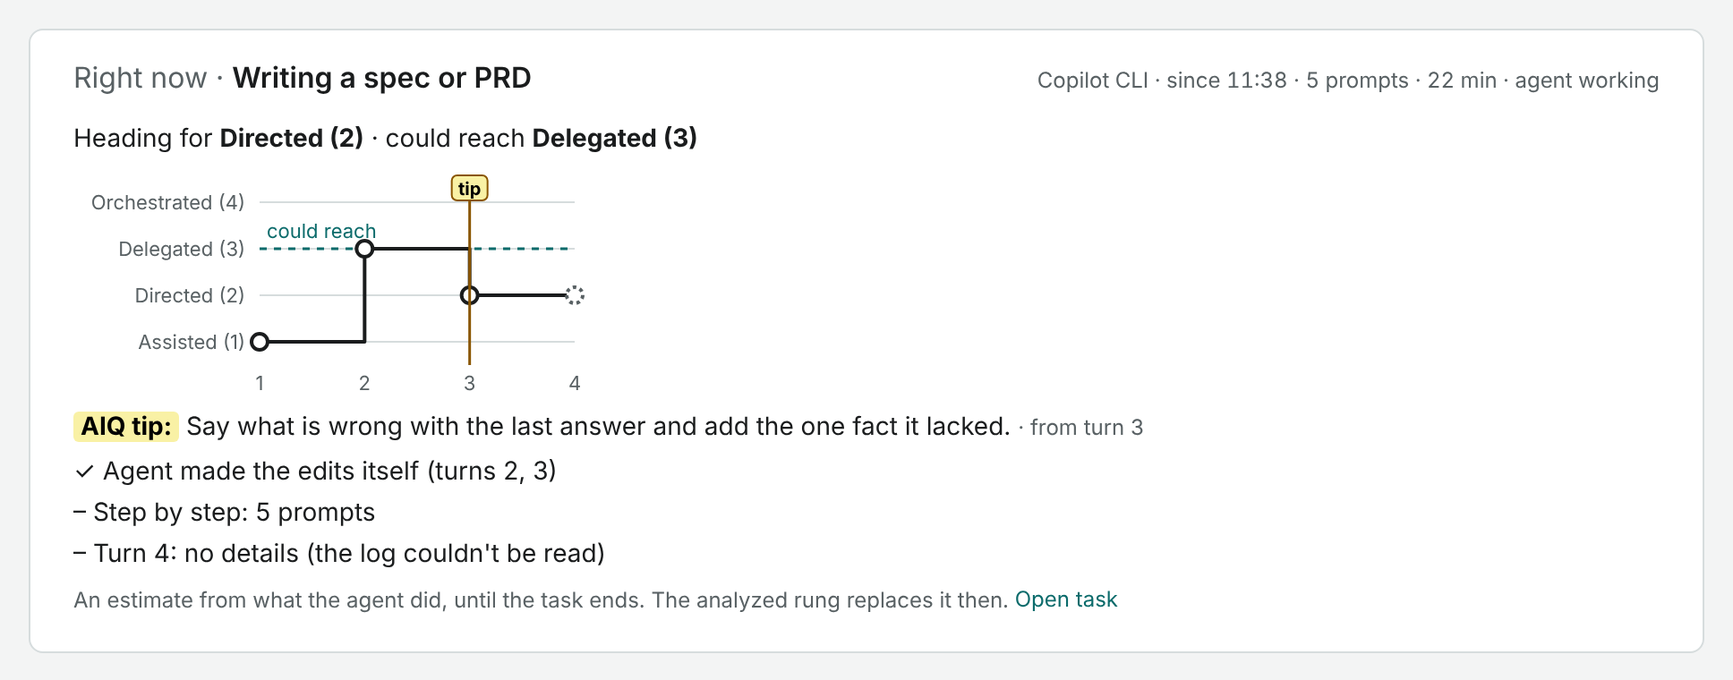
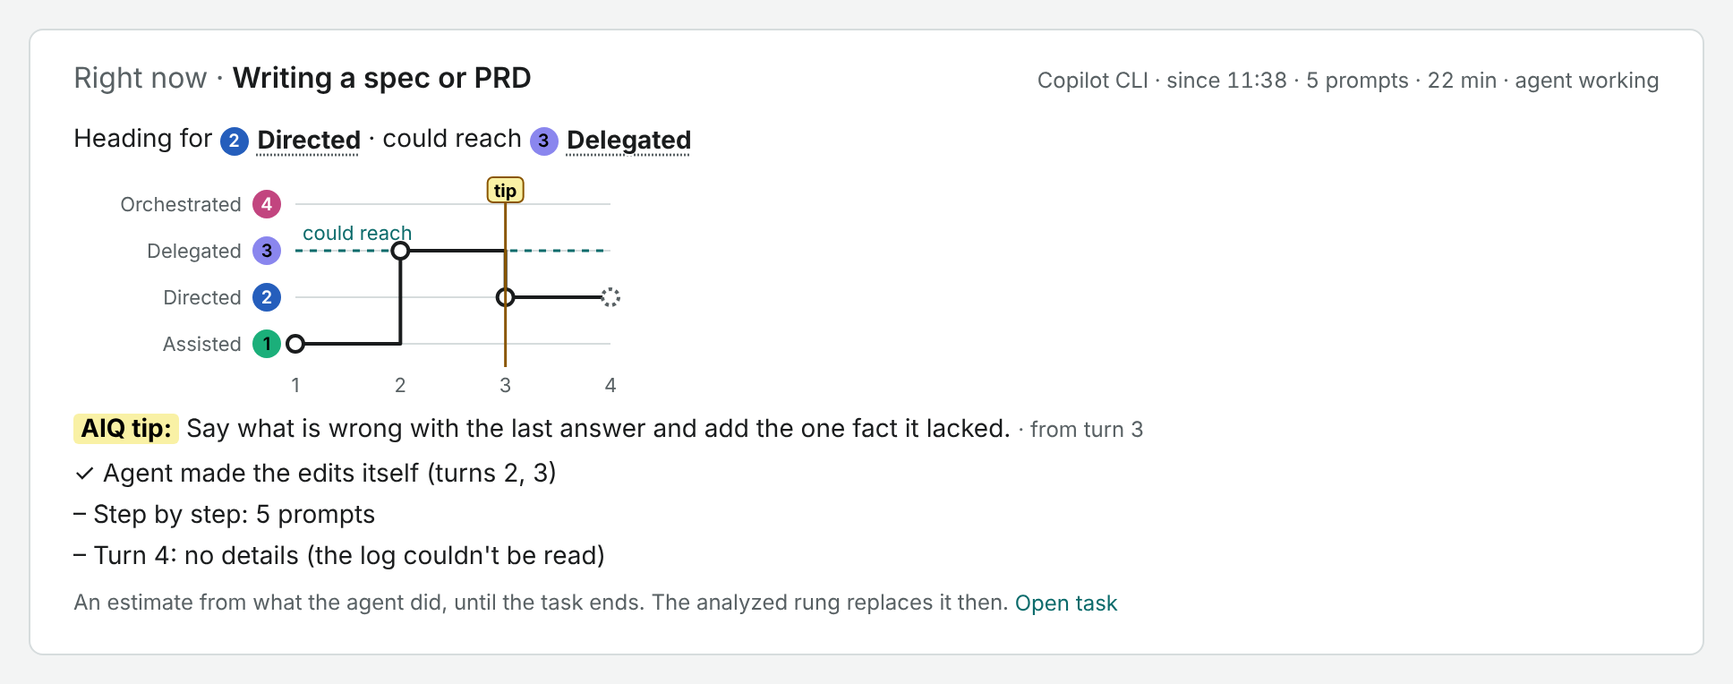
Show rung numbers as badges, and each rung's tasks on Home's ladder
Imran read "Assisted (1) ... Factory (5)" on Home's most-common-rung strip as task
counts per rung, next to "286 of 287 tasks analyzed". They were ladder positions.

- On screen a rung's number is now a badge in its hue before the name (RungNo,
  Rung); "(n)" is gone from Home, Tasks, Kinds, Right now (incl. chart axis),
  Day view, Kind page and Rung guide. Text (aria labels, titles) uses the name.
- Home's ladder strip shows each rung's tasks, and shares from 10 analyzed tasks
  (the rung mix's rule), with "N% of M tasks on a rung - last 30 days" and how
  many were unsure.
- DC-077 in the register; control rungno.test.ts fails on any "Name (n)" in the
  Home source; e2e reads rendered Home, Tasks, Day and Right now text.
- DESIGN.md rule updated; README screenshots refreshed. Terminal status line and
  `aiq progress` keep "Directed (2)" (no counts beside it there).

Claude-Session: https://claude.ai/code/session_016jtqhA4WLgNzGttc6WacLA

diff --git a/docs/lessons/defect-classes.html b/docs/lessons/defect-classes.html
@@ -774,4 +774,68 @@ th { background:var(--code); } hr { border:0; border-top:1px solid var(--line); 
 <ul><li><strong>Control (test):</strong> e2e &quot;an expired sign-in shows on every page…&quot; asserts the amber dot, the sidebar line and the</li></ul>
 <p>Settings rows for the affected tools, all from one blocked state, and that working or paused shows none of them.</p>
 <ul><li><strong>Rule:</strong> when two surfaces describe the same tool, derive both from one reader, and say on each what the other</li></ul>
-<p>one knows.</p></main></body></html>
+<p>one knows.</p>
+<h3>DC-071 — An install that copies over a running exe, and a failure that says no reason</h3>
+<ul><li><strong>Signature:</strong> 2026-11-13, Imran&#x27;s Devbox. Four installs failed in upgrade-log.txt with `AIQ-UPGRADE-SWAP: ...</li></ul>
+<p>The process cannot access the file ...\.aiq\bin\aiq.exe because it is being used by another process`: 0.1.54 at 02:30:02Z and 02:40:40Z, 0.1.55 at 04:08:25Z and 04:09:35Z, each 3 to 6 s after &quot;downloaded and checked&quot;. 0.1.54 went in on a third try and logged &quot;from 0.1.53 to unknown&quot;. Home said only &quot;An update didn&#x27;t install (installing v0.1.55 failed, so AIQ kept 0.1.54); AIQ 0.1.54 kept. It tries again tomorrow.&quot;: no reason, the kept version twice, and &quot;tomorrow&quot; untrue (the next check downloads again, within 15 minutes while Home is open). The diagnostics file held neither upgrade-log.txt nor update.json, so none of this could be read without copying files by hand. What held aiq.exe was not logged; a hook that started after Stop-Aiq is inferred, not measured.</p>
+<ul><li><strong>Why it survives:</strong> <code>-Apply</code> stopped AIQ, then copied the new exe over the old one. Any process that starts or</li></ul>
+<p>survives between the stop and the copy makes Windows refuse the overwrite. The CI runner has no hooks firing, so the race never happened there. The failed copy also overwrote <code>.old</code> with the current version first, so &quot;Go back&quot; was lost after a failure. update.json kept only &quot;installing X failed&quot;; the error lived in the log alone.</p>
+<ul><li><strong>Sweep:</strong> every place that writes an exe into bin: upgrade.ps1 <code>-Apply</code> (fixed), install.ps1 (fixed, same</li></ul>
+<p>rename), <code>-Rollback</code> <code>Swap-Old</code> (already renames), <code>aiq-statusline.exe</code> copy (keeps the one in place on failure, by design). Every reader of update.json&#x27;s failure: AIQ home&#x27;s line and <code>aiq update</code> (both now read <code>reason</code> and say &quot;it tries again at the next check&quot;). The diagnostics file now carries update.json, upgrade-log.txt and upgrade-log-held.txt. Everything that restarts a stopped core: hooks (<code>maybe_start_core</code>) now wait while <code>update-swapping</code> is there; AIQ home can&#x27;t run during <code>-Apply</code> (Busy-Reason); Stop-Aiq now finds processes the same two ways Busy-Reason does and logs what it couldn&#x27;t stop.</p>
+<ul><li><strong>Control (tests):</strong> release.yml Windows smoke &quot;an install goes through while a process AIQ didn&#x27;t stop runs</li></ul>
+<p>aiq.exe&quot; (<code>-SparePid</code> keeps a core running <code>bin\aiq.exe</code>; the old copy-over fails it; a second install while the core runs <code>aiq.exe.old</code> leaves a <code>.del</code> that the next run deletes; a broken zip fails with <code>reason</code>, puts nothing changed, and logs <code>AIQ-UPGRADE-HOLDERS</code>; no <code>update-swapping</code> left). <code>e2e_core_down_prompt_during_an_update_swap_starts_no_core_then_does_after</code> (red without the marker check), <code>a_swap_marker_holds_core_starts_for_two_minutes_at_most</code>. <code>a_failed_update_is_diagnosable_from_the_file_alone</code> (diagnostics), <code>a_failed_install_carries_its_reason_and_an_old_message_loses_the_kept_version</code> (update.rs), <code>a_failed_install_says_why_and_that_the_next_check_tries_again</code> (cli), <code>failedLine</code> unit tests and the Home e2e failed line.</p>
+<ul><li><strong>Rule:</strong> never overwrite a file that another process may run; rename it aside and write the new one beside it.</li></ul>
+<p>A failure record carries the error&#x27;s own words where the person reads it, and the diagnostics file carries every record a diagnosis needs.</p>
+<h3>DC-072 — An updater fix that ships inside the update the faulty updater must install</h3>
+<ul><li><strong>Signature:</strong> 2026-11-13. #279 (in 0.1.56) fixed upgrade.ps1&#x27;s copy-over failure on a held aiq.exe. The laptop</li></ul>
+<p>installed 0.1.56 first try. The Devbox stayed on 0.1.54: every try ran the installed 0.1.54 upgrade.ps1, which hit the same held aiq.exe, so the fix could never arrive. Imran was asked for a manual install.</p>
+<ul><li><strong>Why it survives:</strong> <code>-Apply</code> always ran the script already in bin, and a new script reached bin only by a successful</li></ul>
+<p>install. Every earlier <code>-Apply</code> fix had the same one-release lag (noted in U5l, U5o, U5p), but those old scripts still worked, so the lag never stranded a machine.</p>
+<ul><li><strong>Sweep:</strong> what runs an install: upgrade.ps1 <code>-Apply</code> (fixed: hands off), <code>-Zip</code> (already runs the release&#x27;s own</li></ul>
+<p>install.ps1), install.ps1 (the person runs the new one). <code>-Rollback</code> swaps back to the <code>.old</code> exes; the script that runs it is the newer one, which is what a rollback wants.</p>
+<ul><li><strong>Control (test):</strong> release.yml Windows smoke: a staged release whose upgrade.ps1 differs installs with that script</li></ul>
+<p>(<code>-Handoff</code> proof line, AIQ-UPDATE-HANDOFF), puts it in bin, cleans its temp copy; the same script again does not hand off; the handoff back to this build&#x27;s script works.</p>
+<ul><li><strong>Rule:</strong> the code that installs a release must be the release&#x27;s own, verified like the rest of it. A fix to an</li></ul>
+<p>installer must not depend on the old installer working. Honest limit: this only helps machines whose bin script already hands off; a machine stuck before that still needs one install by other means.</p>
+<h3>DC-073 — A task boundary that counts the person&#x27;s silence while the agent works</h3>
+<ul><li><strong>Signature:</strong> 2026-11-13. Imran: &quot;why are no tasks being classified as orchestrated?&quot; Of 1,090 analyzed tasks on</li></ul>
+<p>the laptop, 1 was Orchestrated. A task ended 30 minutes after the person&#x27;s last prompt, so a plan handed to a Fleet of sub-agents became one task and &quot;keep going&quot; two hours later another, analyzed without the plan. In the imported history 547 prompts started a new task by the gap; for 177 of them the agent itself had worked over 30 minutes.</p>
+<ul><li><strong>Why it survives:</strong> the idle gap was written for chat-style turns, where the person&#x27;s prompt is the only activity.</li></ul>
+<p>Long agent runs make the person&#x27;s silence normal, and nothing measured the agent&#x27;s side.</p>
+<ul><li><strong>Sweep:</strong> every place that splits tasks: <code>split_tasks</code> (Home, judge queue, task pages), the live <code>Engine</code> (tips,</li></ul>
+<p>re-prompt signal; its <code>prune</code> dropped a task while its agent still worked), <code>prompts_for_rebuild</code>, the Right-now <code>open_task</code>. All now count the agent&#x27;s turn end (<code>stop</code>) as activity. A task that grew after it was analyzed is analyzed again (<code>grew</code>, judge queue).</p>
+<ul><li><strong>Control (tests):</strong> <code>a_long_agent_run_keeps_its_task_open</code>, <code>engine_agent_stop_keeps_the_live_task_open</code>, the</li></ul>
+<p><code>split_tasks_matches_engine_task_ids</code> property with turn ends mixed in.</p>
+<ul><li><strong>Rule:</strong> a boundary in activity is measured from the last activity of anyone in it, not only the person.</li></ul>
+<h3>DC-074 — A log fact that says &quot;no&quot; when the log can only ever see &quot;yes&quot;</h3>
+<ul><li><strong>Signature:</strong> 2026-11-13. The envelope said &quot;spec, brief or design doc read or named: no&quot; and told the model to</li></ul>
+<p>trust log facts over the quoted text. The path match knew spec, ADR and design paths, not plan files. A Fleet launch naming <code>…IMPLEMENTATION_PLAN.md</code>, with 3 sub-agents and agent-run tests, was placed Directed: &quot;Your device logs do not establish a written brief&quot;. 44 of the 46 tasks with sub-agents and agent-run checks were marked &quot;no brief&quot;.</p>
+<ul><li><strong>Why it survives:</strong> DC-020 turned a log fact AIQ could not read into unknown, but kept &quot;no&quot; where every turn was</li></ul>
+<p>read. A path match can see a brief; it can never rule one out (a brief can be pasted or named in words).</p>
+<ul><li><strong>Sweep:</strong> log facts that are &quot;no&quot; when all turns are read: F1 edits, F8, F14, F15 and F3 read the agent&#x27;s own</li></ul>
+<p>actions, so a &quot;no&quot; there is a real observation. F7 was the only one that reads for a thing the log cannot cover.</p>
+<ul><li><strong>Control (tests):</strong> <code>a_brief_the_log_cannot_see_is_unknown_never_no</code>, <code>a_plan_file_is_a_brief</code>,</li></ul>
+<p><code>brief_may_change_only_where_the_brief_is_the_last_need</code>; fact set fs5.</p>
+<ul><li><strong>Rule:</strong> a log fact may say &quot;no&quot; only when the log could have seen every way to say &quot;yes&quot;.</li></ul>
+<h3>DC-075 — Another computer&#x27;s analysis calls counted as this computer&#x27;s</h3>
+<ul><li><strong>Signature:</strong> 2026-11-13, after 0.1.58. <code>aiq judge --versions</code> on the laptop: 132 outdated analyses &quot;not queued&quot;.</li></ul>
+<p>Each of them had exactly 6 failed calls (AIQ-JUDGE-ERROR) made by the Devbox, synced in: 2,136 Devbox failures on 391 laptop task ids, 11-09 to 11-12. The laptop&#x27;s retry rule counted them, so it &quot;gave up&quot; on its own tasks and they stayed on the old task cut and fact set.</p>
+<ul><li><strong>Why it survives:</strong> sync (#252) brought <code>judge_call</code> rows from other computers; <code>tools_down</code> and</li></ul>
+<p><code>newest_judge_call_per_provider</code> were scoped to <code>computer IS NULL</code>, <code>judge_calls_since</code> was not.</p>
+<ul><li><strong>Sweep:</strong> every <code>judge_calls_since</code> reader: the analysis queue&#x27;s retries and give-up, the daily budget</li></ul>
+<p>(<code>tasks_today</code>), Home&#x27;s &quot;analysis today&quot; counts and back-off state, <code>aiq judge --versions</code>. All now read this computer&#x27;s calls only.</p>
+<ul><li><strong>Control (test):</strong> <code>another_computers_calls_never_count_against_this_computers_tasks</code> (store).</li><li><strong>Rule:</strong> a synced row describes the computer that wrote it; a rule about this computer reads only its own rows.</li></ul>
+<h3>DC-076 — A run summary that leaves out the work done without a model call</h3>
+<ul><li><strong>Signature:</strong> 2026-11-13, after 0.1.59. judge.log said <code>run judged=24 ... waiting=0</code> while about 70 more outdated</li></ul>
+<p>tasks had left the queue. Alpha could not tell whether AIQ would release them later or they no longer qualified. They were restamped (log facts unchanged, no model call), which the line never counted.</p>
+<ul><li><strong>Sweep:</strong> the Report fields not in the run line: <code>restamped</code>, <code>skipped_no_text</code>. Both added.</li><li><strong>Control (test):</strong> <code>the_run_line_says_how_many_were_restamped_or_had_no_text</code>.</li><li><strong>Rule:</strong> a summary line accounts for every item that left the queue, by the path it took.</li></ul>
+<h3>DC-077 — An ordinal written like a count, beside counts</h3>
+<ul><li><strong>Signature:</strong> 2026-11-13, Imran on Home: &quot;Your most common rung: Assisted (1) · 286 of 287 tasks analyzed&quot; over a</li></ul>
+<p>ladder &quot;Assisted (1) … Factory (5)&quot;. He read the bracketed numbers as tasks per rung and asked why they disagreed with the Kinds view (9 kinds Directed) and All tasks (many Directed). They were ladder positions.</p>
+<ul><li><strong>Why it survives:</strong> spec H4 &quot;names first, numbers second&quot; chose <code>Directed (2)</code> for one rung in a sentence; the</li></ul>
+<p>same helper (<code>rungLabel</code>) was reused on screens that also show counts, where &quot;(n)&quot; is the common count notation.</p>
+<ul><li><strong>Sweep:</strong> every <code>rungLabel</code> reader in Home (strip, Right now, Day view, Kind chart axis, Tasks, Kinds, chips).</li></ul>
+<p>On screen the number is now a badge before the name (<code>RungNo</code>, <code>Rung</code>); text (aria labels, titles) uses the name alone. Not swept: the terminal status line and <code>aiq progress</code> text (no counts beside the rung there); follow-up if they confuse.</p>
+<ul><li><strong>Control (test):</strong> <code>rungno.test.ts</code> fails if any Home source writes a rung name followed by &quot;(1)&quot;–&quot;(5)&quot; or the</li></ul>
+<p>old template; e2e &quot;rung numbers are badges, never \&quot;(n)\&quot; beside counts&quot; reads the rendered Home, Tasks and Day text and checks the ladder&#x27;s per-rung counts against the snapshot.</p>
+<ul><li><strong>Rule:</strong> never write a position in the notation the same screen uses for counts; show it as a mark (badge).</li></ul></main></body></html>

diff --git a/DESIGN.html b/DESIGN.html
@@ -49,7 +49,7 @@ th { background:var(--code); } hr { border:0; border-top:1px solid var(--line); 
 <h2>2. Color palette &amp; roles — with contrast audit</h2>
 <p>Ratios computed from the hex values (WCAG relative luminance), light mode on <code>{colors.surface}</code> unless stated. Dark and high-contrast values are in §8.</p>
 <table><thead><tr><th>Token</th><th>Hex</th><th>Role</th><th>On surface</th><th>Contrast</th><th>AA</th></tr></thead><tbody><tr><td><code>{colors.ink}</code></td><td>#1a1c1d</td><td>Body text</td><td><code>{colors.surface}</code></td><td>17.10:1</td><td>pass</td></tr><tr><td><code>{colors.ink}</code></td><td>#1a1c1d</td><td>Body text</td><td><code>{colors.canvas}</code></td><td>15.52:1</td><td>pass</td></tr><tr><td><code>{colors.ink-mute}</code></td><td>#596164</td><td>Captions, helper</td><td><code>{colors.surface}</code></td><td>6.33:1</td><td>pass</td></tr><tr><td><code>{colors.ink-mute}</code></td><td>#596164</td><td>Captions on canvas</td><td><code>{colors.canvas}</code></td><td>5.74:1</td><td>pass</td></tr><tr><td><code>{colors.ink-mute}</code></td><td>#596164</td><td>Captions on soft</td><td><code>{colors.canvas-soft}</code></td><td>5.41:1</td><td>pass</td></tr><tr><td><code>{colors.on-primary}</code></td><td>#ffffff</td><td>Primary button label</td><td><code>{colors.primary}</code></td><td>6.31:1</td><td>pass</td></tr><tr><td><code>{colors.primary}</code></td><td>#0b6b6b</td><td>Links, selected nav text</td><td><code>{colors.surface}</code></td><td>6.31:1</td><td>pass</td></tr><tr><td><code>{colors.success}</code></td><td>#1e7a45</td><td>&quot;Adopted&quot; chip text</td><td><code>{colors.surface}</code></td><td>5.35:1</td><td>pass</td></tr><tr><td><code>{colors.warning}</code></td><td>#8a5600</td><td>&quot;Blocked by the repo&quot;, paused</td><td><code>{colors.surface}</code></td><td>6.16:1</td><td>pass</td></tr><tr><td><code>{colors.danger}</code></td><td>#b42318</td><td>Errors, delete</td><td><code>{colors.surface}</code></td><td>6.57:1</td><td>pass</td></tr><tr><td><code>{colors.focus-ring}</code></td><td>#0b6b6b</td><td>Focus ring (2px)</td><td><code>{colors.surface}</code></td><td>6.31:1</td><td>pass (≥ 3)</td></tr><tr><td><code>{colors.scrim}</code></td><td>#0a1414</td><td>Dialog and palette backdrop at 30–35%</td><td>—</td><td>—</td><td>not text</td></tr><tr><td><code>{colors.hairline}</code></td><td>#d6dcdd</td><td>Dividers (decorative)</td><td><code>{colors.surface}</code></td><td>1.39:1</td><td>exempt (decorative); never the only control boundary</td></tr></tbody></table>
-<p>Rung ramp <code>{colors.rung-1}</code>…<code>{colors.rung-5}</code> fills bars only; every bar carries its rung name and value as text, so no meaning rests on the colour (WCAG 1.4.1).</p>
+<p>Rung ramp <code>{colors.rung-1}</code>…<code>{colors.rung-5}</code> fills bars only; every bar carries its rung name and value as text, so no meaning rests on the colour (WCAG 1.4.1). Each rung has its own hue, walking the wheel aqua → blue → violet → magenta → orange, and the same five serve light and dark (a rung keeps its colour). Imran (2026-11-05): shades of one green can&#x27;t be told apart; measured, five one-hue shades top out near OKLab ΔE 11 between neighbours. These five clear the dataviz gates over all pairs in both themes: normal-vision ΔE ≥ 15.7, protan/deutan ΔE ≥ 9.0, every fill ≥ 2:1 on both canvases. The success green stays reserved for status. Every rung swatch, segment and block also shows its rung number in <code>--on-rung-N</code> ink (at least 4.7:1 on its fill). <code>apps/home/src/palette.test.ts</code> enforces all of this.</p>
 <h2>3. Typography</h2>
 <table><thead><tr><th>Token</th><th>Size</th><th>Weight</th><th>Line height</th><th>Tracking</th><th>Use</th></tr></thead><tbody><tr><td><code>{typography.display}</code></td><td>44px</td><td>600</td><td>1.05</td><td>-0.5px</td><td>The kept rate on Home, nothing else</td></tr><tr><td><code>{typography.title}</code></td><td>24px</td><td>600</td><td>1.25</td><td>-0.2px</td><td>Page titles</td></tr><tr><td><code>{typography.heading}</code></td><td>16px</td><td>600</td><td>1.35</td><td>0</td><td>Section and card headings</td></tr><tr><td><code>{typography.body}</code></td><td>14px</td><td>400</td><td>1.5</td><td>0</td><td>Default text, table cells</td></tr><tr><td><code>{typography.caption}</code></td><td>12px</td><td>400</td><td>1.4</td><td>0.1px</td><td>Meta, counts, key hints</td></tr><tr><td><code>{typography.mono}</code></td><td>13px</td><td>400</td><td>1.5</td><td>0</td><td>Prompts, commands, starter prompt</td></tr></tbody></table>
 <p>Open-source substitute off Windows: system-ui (Linux/macOS). Numbers use tabular figures.</p>
@@ -65,7 +65,7 @@ th { background:var(--code); } hr { border:0; border-top:1px solid var(--line); 
 <h2>7. UI copy — real strings</h2>
 <ul><li>Home headline: &quot;Tasks agents finished without you redoing them&quot; · &quot;{kept} of {judged} tasks in the last 30 days&quot;</li><li>First weeks: &quot;AIQ runs quietly in the background. Patterns show after about 10 tasks of the same kind.&quot;</li><li>Queued: &quot;{n} tasks are waiting to be judged. They&#x27;re left out of these numbers until then.&quot;</li><li>Core down: &quot;AIQ isn&#x27;t running, so this shows what was stored at {time}. It starts with your next prompt in Claude Code.&quot;</li><li>Low confidence: &quot;AIQ isn&#x27;t sure enough to suggest a next step yet.&quot;</li><li>Environment blocker: &quot;Blocked by the repo: {finding}. That&#x27;s a repo fix, not a habit.&quot;</li><li>This doesn&#x27;t fit: &quot;What doesn&#x27;t fit?&quot; · &quot;This tunes your tips. It doesn&#x27;t change how the task is judged.&quot; · &quot;Thanks. AIQ won&#x27;t suggest this step for this task. Undo&quot;</li><li>Setup judge, signed in: &quot;AIQ will judge finished tasks with your Claude Code. Each check uses your Claude Code plan usage, up to {budget} tasks a day. AIQ never reads or stores your sign-in.&quot;</li><li>Setup judge, not signed in: &quot;Sign in to Claude Code&quot; · &quot;Use an API key instead&quot; · &quot;Skip for now&quot;</li><li>Work-account caveat: &quot;On a work account, your organisation&#x27;s policies apply to these calls, including logging and retention.&quot;</li><li>Delete all: &quot;Delete everything AIQ stored?&quot; · &quot;This deletes {events} events, {tips} tips and their evidence. It can&#x27;t be undone. Your tools and your work aren&#x27;t affected.&quot; · &quot;Type forget to confirm&quot;</li><li>Deleted: &quot;AIQ has no stored history. Capture is still on.&quot;</li><li>Paused: &quot;AIQ is paused. Nothing is captured and no tips show.&quot; · &quot;Resume (P)&quot;</li><li>Sharing off: &quot;Off. Nothing leaves this computer.&quot;</li></ul>
 <h2>8. Modes</h2>
-<table><thead><tr><th>Token</th><th>Light</th><th>Dark</th><th>High contrast</th></tr></thead><tbody><tr><td>canvas</td><td>#f3f4f4</td><td>#1b1d1e</td><td>#000000</td></tr><tr><td>canvas-soft</td><td>#eaeeee</td><td>#2d3234</td><td>#000000</td></tr><tr><td>surface</td><td>#ffffff</td><td>#24282a</td><td>#000000</td></tr><tr><td>ink</td><td>#1a1c1d</td><td>#eceeee</td><td>#ffffff</td></tr><tr><td>ink-mute</td><td>#596164</td><td>#a3abae</td><td>#e8e8e8</td></tr><tr><td>hairline</td><td>#d6dcdd</td><td>#3a4143</td><td>#ffffff</td></tr><tr><td>primary / focus-ring</td><td>#0b6b6b</td><td>#5cc8c2</td><td>#ffd400</td></tr><tr><td>on-primary</td><td>#ffffff</td><td>#0b1d1d</td><td>#000000</td></tr><tr><td>success</td><td>#1e7a45</td><td>#6fd39a</td><td>#7ee2a8</td></tr><tr><td>warning</td><td>#8a5600</td><td>#f0b860</td><td>#ffd166</td></tr><tr><td>danger</td><td>#b42318</td><td>#ff9a8f</td><td>#ffb4ab</td></tr><tr><td>rung-1…5</td><td>#c4e6e3 → #0b3f3d</td><td>#1d4a48 → #c4ece9</td><td>outlines only, white</td></tr></tbody></table>
+<table><thead><tr><th>Token</th><th>Light</th><th>Dark</th><th>High contrast</th></tr></thead><tbody><tr><td>canvas</td><td>#f3f4f4</td><td>#1b1d1e</td><td>#000000</td></tr><tr><td>canvas-soft</td><td>#eaeeee</td><td>#2d3234</td><td>#000000</td></tr><tr><td>surface</td><td>#ffffff</td><td>#24282a</td><td>#000000</td></tr><tr><td>ink</td><td>#1a1c1d</td><td>#eceeee</td><td>#ffffff</td></tr><tr><td>ink-mute</td><td>#596164</td><td>#a3abae</td><td>#e8e8e8</td></tr><tr><td>hairline</td><td>#d6dcdd</td><td>#3a4143</td><td>#ffffff</td></tr><tr><td>primary / focus-ring</td><td>#0b6b6b</td><td>#5cc8c2</td><td>#ffd400</td></tr><tr><td>on-primary</td><td>#ffffff</td><td>#0b1d1d</td><td>#000000</td></tr><tr><td>success</td><td>#1e7a45</td><td>#6fd39a</td><td>#7ee2a8</td></tr><tr><td>warning</td><td>#8a5600</td><td>#f0b860</td><td>#ffd166</td></tr><tr><td>danger</td><td>#b42318</td><td>#ff9a8f</td><td>#ffb4ab</td></tr><tr><td>rung-1…5</td><td>aqua #1baf7a, blue #255ebc, violet #8a86ee, magenta #c2457f, orange #e86531</td><td>same five</td><td>black fills, white outlines and numbers</td></tr></tbody></table>
 <p>Dark-mode audit (on surface): ink 12.77, ink-mute 6.37, primary 7.43, on-primary on primary 8.69, success 8.12, warning 8.31, danger 7.27. All pass AA. Density: Compact drops row padding from 12 to 8 in tables only.</p>
 <h2>9. Performance budget</h2>
 <p>Cold start to interactive Home ≤ 1 s with 30 days of data (spec NFR); view switches ≤ 100 ms; all reads local. No web fonts, no images beyond inline SVG; skeletons for any read over 150 ms.</p>
@@ -73,7 +73,7 @@ th { background:var(--code); } hr { border:0; border-top:1px solid var(--line); 
 <p>AIQ home shows a model&#x27;s judgment (the rung judge) and a model&#x27;s suggested next step.</p>
 <ul><li><strong>HAX G1/G2:</strong> the judge&#x27;s source is named on every detail (&quot;judged by your Claude Code&quot;).</li><li><strong>HAX G11 (why):</strong> the facts the judge used sit beside every next step.</li><li><strong>HAX G15/G16 (feedback):</strong> &quot;This doesn&#x27;t fit&quot; with a reason, and Undo.</li><li><strong>Uncertainty:</strong> below 0.8 confidence no next step is shown; uncertain facts say &quot;uncertain&quot;.</li><li><strong>Wrong answer:</strong> the person never sees a rung as a verdict on them; they can withdraw any guidance.</li><li><strong>Governor:</strong> nothing is sent or run for the person; the starter prompt is copied, not sent.</li><li><strong>Unavailable judge:</strong> views that need it say why and how to connect, and the rest works.</li></ul>
 <h2>11. Do&#x27;s &amp; Don&#x27;ts</h2>
-<ul><li>Do lead with the kept rate; rungs explain underneath.</li><li>Do write rung names first, numbers second (&quot;Directed (2)&quot;).</li><li>Don&#x27;t show scores, grades, streaks, badges or any comparison with other people.</li><li>Don&#x27;t use <code>{colors.danger}</code> for anything except errors and deletion.</li><li>Don&#x27;t use a thick coloured side bar on banners or cards.</li></ul>
+<ul><li>Do lead with the kept rate; rungs explain underneath.</li><li>Do write rung names first; on screen the rung number is a badge before the name in its hue, never &quot;(2)&quot; after it, which beside counts reads as a count (DC-077). Plain text (terminal) may write &quot;Directed (2)&quot;.</li><li>Don&#x27;t show scores, grades, streaks, badges or any comparison with other people.</li><li>Don&#x27;t use <code>{colors.danger}</code> for anything except errors and deletion.</li><li>Don&#x27;t use a thick coloured side bar on banners or cards.</li></ul>
 <h2>12. Responsive behaviour</h2>
 <p>Desktop-bound. Minimum window 720×520. Below 900px wide the nav collapses to icons plus key hints and Home&#x27;s top row stacks. Pointer targets ≥ 32px high in the desktop app (WCAG 2.2 2.5.8 minimum 24px); primary actions 36px.</p>
 <h2>13. Agent prompt &amp; iteration guide</h2>

diff --git a/apps/home/src/pages/Home.tsx b/apps/home/src/pages/Home.tsx
@@ -5,8 +5,8 @@
 import { api } from "../api";
 import { HabitChangeLine, LadderMap, MilestoneLine, NextSteps, RungMix, judgedBy, moved, pct } from "../coach";
 import { DAY, rungCounts, shift } from "../mix";
-import { RUNGS, day, folderName, plural, rungLabel, sentence, shortDay, shortPath, toolName, when } from "../format";
-import { AccuracyPaused, Banners, ProjectPicker, Rung, Title, UpdateLine, type Ctx } from "../ui";
+import { RUNGS, day, folderName, plural, sentence, shortDay, shortPath, toolName, when } from "../format";
+import { AccuracyPaused, Banners, ProjectPicker, Rung, RungNo, Title, UpdateLine, type Ctx } from "../ui";
 import type { SetAside } from "../types";
 import { RightNow } from "./RightNow";
 import { DroughtNote } from "../funnel";
@@ -37,6 +37,8 @@ export function Home(ctx: Ctx) {
   const max = Math.max(1, ...h.weeks.map((w) => w.tasks));
   const mc = h.most_common_rung;
   const onRung = h.rungs.reduce((a, b) => a + b, 0);
+  // Shares only from the split minimum, as the rung mix below: a few tasks can't swing a percentage.
+  const shares = onRung >= snap.coaching.split_min;
   const mv = moved(snap.coaching);
   const c = snap.coaching;
   const sp = c.split;
@@ -64,25 +66,38 @@ export function Home(ctx: Ctx) {
       <section
         className="mainrung"
         role="img"
-        aria-label={`Your most common rung: ${mc ? `${rungLabel(mc)}. ${RUNGS[mc - 1].means}` : "not analyzed yet"}. The ladder runs Assisted, Directed, Delegated, Orchestrated, Factory.`}
+        aria-label={`Your most common rung: ${mc ? `${RUNGS[mc - 1].name}, rung ${mc} of 5. ${RUNGS[mc - 1].means} ${RUNGS.map((r, i) => `${r.name} ${plural(h.rungs[i] ?? 0, "task")}`).join(", ")}, last ${h.window_days} days.` : "not analyzed yet. The ladder runs Assisted, Directed, Delegated, Orchestrated, Factory."}`}
       >
         <div className="lbl" aria-hidden="true">
           <span className="mute">Your most common rung</span>
           {mc ? (
-            <span style={{ font: "var(--t-heading)" }}>{rungLabel(mc)}</span>
+            <span style={{ font: "var(--t-heading)" }}>{RUNGS[mc - 1].name}</span>
           ) : (
             <span className="meta">{h.analysis.state === "off" ? "Analysis is off" : "Not analyzed yet"}</span>
+          )}
+          {mc && (
+            <span className="meta" data-testid="rung-share">
+              {shares ? `${pct(h.rungs[mc - 1], onRung)}%` : h.rungs[mc - 1]} of {plural(onRung, "task")} on a rung · last {h.window_days} days
+            </span>
           )}
           <span className="meta">
             {(ctx.project === null && h.analysis.state !== "blocked" && analysisLine(h.analysis)) ||
               (h.judged > 0 ? `${plural(h.judged, "task")} analyzed in ${h.window_days} days` : "No task analyzed yet")}
+            {h.uncertain > 0 && ` · ${h.uncertain} unsure, not on a rung`}
           </span>
           {mc && <span className="meta means">{RUNGS[mc - 1].means}</span>}
         </div>
-        <div className="scale" aria-hidden="true">
-          {RUNGS.map((_, i) => (
-            <span key={i} className={mc === i + 1 ? "on" : undefined} title={RUNGS[i].means}>{rungLabel(i + 1)}</span>
-          ))}
+        <div className="scale counted" aria-hidden="true">
+          {RUNGS.map((r, i) => {
+            const v = h.rungs[i] ?? 0;
+            return (
+              <span key={i} className={mc === i + 1 ? "on" : undefined} title={r.means}>
+                <span className="step-bar"><i className={`rg-${i + 1}`} style={{ width: `${pct(v, onRung)}%` }} /></span>
+                <span className="step-name"><RungNo r={i + 1} />{r.name}</span>
+                <span className="step-n num">{v === 0 ? "none" : shares ? `${plural(v, "task")} · ${pct(v, onRung)}%` : plural(v, "task")}</span>
+              </span>
+            );
+          })}
         </div>
       </section>
 

diff --git a/apps/home/src/styles.css b/apps/home/src/styles.css
@@ -150,7 +150,22 @@ kbd{font:var(--t-caption);border:1px solid var(--ink-mute);border-radius:var(--r
 .scale>span{cursor:help}
 /* A rung name you can hover for its meaning: a quiet dotted underline says so. */
 .rung{text-decoration:underline dotted var(--ink-mute);text-underline-offset:3px;cursor:help}
+.rn-no{font:600 10px/1 var(--f-text)}
+@media (forced-colors:active){.rn-trace circle{fill:Canvas!important;stroke:CanvasText}.rn-no{fill:CanvasText!important}}
+.rung-tag{display:inline-flex;align-items:center;gap:5px;white-space:nowrap}
+.rung-no{display:inline-grid;place-items:center;flex:none;width:16px;height:16px;border-radius:50%;font:600 10px/1 var(--f-text);font-style:normal}
+@media (forced-colors:active){.rung-no{border:1px solid CanvasText;forced-color-adjust:none}}
 .scale>span.on::before{height:12px;margin-top:-2px;background:var(--primary);border-color:var(--primary)}
+/* The ladder strip with each rung's tasks: a share bar in the rung's hue, its number as a badge (not "(1)", which
+   reads as a count), and the count and share under the name. */
+.scale.counted>span::before{content:none}
+.scale.counted>span{gap:var(--s1);text-align:left}
+.step-bar{display:block;height:8px;border-radius:var(--r-sm);background:var(--canvas-soft);border:1px solid var(--hairline);overflow:hidden}
+.step-bar i{display:block;height:100%}
+.scale.counted>span.on .step-bar{height:12px;margin-top:-2px;border-color:var(--ink-mute)}
+.step-name{display:inline-flex;align-items:center;gap:6px}
+.step-n{color:var(--ink-mute)}
+.scale.counted>span.on .step-n{color:var(--ink)}
 .track{display:block;position:relative;height:16px;background:var(--canvas-soft);border-radius:var(--r-sm)}
 .track .now{position:absolute;inset:0 auto 0 0;border-radius:var(--r-sm)}
 [data-theme="contrast"] .track .now{border:1px solid var(--ink)}
@@ -438,7 +453,7 @@ nav.side .foot .updwhen{color:var(--ink-mute);font:400 11px/1.4 var(--f-text)}
 /* Kind page "Moving up?" (UI review item 9): rung of each judged task over the window. */
 .km{margin:var(--s3) 0 0;display:grid;grid-template-columns:auto minmax(0,1fr);grid-template-rows:120px auto;column-gap:var(--s4);row-gap:var(--s2)}
 .km-y{position:relative;min-width:110px;font:var(--t-caption);color:var(--ink-mute);text-align:right}
-.km-y span{position:absolute;right:0;transform:translateY(-50%);white-space:nowrap}
+.km-y span{position:absolute;right:0;transform:translateY(-50%);white-space:nowrap;display:inline-flex;align-items:center;gap:5px}
 .km-plot{position:relative;margin:0 var(--s2)}
 .km-plot svg{position:absolute;inset:0;width:100%;height:100%;overflow:visible}
 .km-plot polyline{fill:none;stroke:var(--ink);stroke-width:2;vector-effect:non-scaling-stroke;stroke-linejoin:round}

diff --git a/apps/home/src/pages/RightNow.tsx b/apps/home/src/pages/RightNow.tsx
@@ -6,7 +6,7 @@
 import { useState } from "react";
 import { clock, jobName, plural, rungLabel, sentence, toolName, when } from "../format";
 import { projectName } from "../project";
-import type { Ctx } from "../ui";
+import { Rung, type Ctx } from "../ui";
 import type { Live, Snapshot } from "../types";
 
 const RN = ["Assisted", "Directed", "Delegated", "Orchestrated"];
@@ -39,7 +39,7 @@ export function reasons(l: Live): { ok: boolean; text: string }[] {
 
 function Trace({ l }: { l: Live }) {
   const n = Math.max(l.steps.length, 1);
-  const L = 104, W = Math.max(160, n * 44), top = 8, RH = 26, H = top + 4 * RH;
+  const L = 124, W = Math.max(160, n * 44), top = 8, RH = 26, H = top + 4 * RH;
   const Y = (r: number) => top + (4 - r) * RH + RH / 2;
   const X = (i: number) => L + (n === 1 ? W / 2 : (i * W) / (n - 1));
   let d = "";
@@ -55,8 +55,12 @@ function Trace({ l }: { l: Live }) {
       {[1, 2, 3, 4].map((r) => (
         <g key={r}>
           <line x1={L} x2={L + W} y1={Y(r)} y2={Y(r)} className="rn-grid" />
-          <text x={L - 8} y={Y(r) + 4} textAnchor="end" className="rn-ax">
-            {RN[r - 1]} ({r})
+          <text x={L - 30} y={Y(r) + 4} textAnchor="end" className="rn-ax">
+            {RN[r - 1]}
+          </text>
+          <circle cx={L - 16} cy={Y(r)} r={8} style={{ fill: `var(--rung-${r})` }} />
+          <text x={L - 16} y={Y(r) + 3.5} textAnchor="middle" className="rn-no" style={{ fill: `var(--on-rung-${r})` }}>
+            {r}
           </text>
         </g>
       ))}
@@ -180,10 +184,10 @@ export function RightNow(ctx: Ctx) {
         <p className="rn-head">
           {l.rung !== null ? (
             <>
-              Heading for <b>{rungLabel(l.rung)}</b>
+              Heading for <b><Rung r={l.rung} /></b>
               {l.could !== null && (
                 <>
-                  {" "}· could reach <b>{rungLabel(l.could)}</b>
+                  {" "}· could reach <b><Rung r={l.could} /></b>
                 </>
               )}
             </>

diff --git a/apps/home/src/pages/DayView.tsx b/apps/home/src/pages/DayView.tsx
@@ -6,7 +6,7 @@ import { useMemo, useState } from "react";
 import { clock, day, jobOf, plural, rungLabel, stateLabel, toolName } from "../format";
 import { GAP_MIN, daySummary, lanes, taskDays, timeline, type Lane } from "../day";
 import { projectName, projectOf } from "../project";
-import type { Ctx } from "../ui";
+import { Rung, type Ctx } from "../ui";
 import type { TaskRow } from "../types";
 
 const span = (a: number, b: number, off: number) => (clock(a, off) === clock(b, off) ? clock(a, off) : `${clock(a, off)}–${clock(b, off)}`);
@@ -20,8 +20,12 @@ function TaskTip({ t, off }: { t: TaskRow; off: number }) {
       <br />
       {t.judgment ? (
         <>
-          {rungLabel(t.judgment.current)}
-          {t.judgment.potential > t.judgment.current && ` · could be ${rungLabel(t.judgment.potential)}`}
+          <Rung r={t.judgment.current} />
+          {t.judgment.potential > t.judgment.current && (
+            <>
+              {" "}· could be <Rung r={t.judgment.potential} />
+            </>
+          )}
           {stateLabel(t.judgment.state) && ` · ${stateLabel(t.judgment.state)}`}
         </>
       ) : (
@@ -54,7 +58,7 @@ function LaneTip({ l, name, off }: { l: Lane; name: string; off: number }) {
       {l.usual_rung !== null && (
         <>
           <br />
-          Mostly {rungLabel(l.usual_rung)}
+          Mostly <Rung r={l.usual_rung} />
         </>
       )}
     </span>
@@ -96,7 +100,7 @@ export function DayView(ctx: Ctx) {
         {sum.kinds > 0 && <> · {plural(sum.kinds, "kind")} of task</>}
         {sum.usual !== null && (
           <>
-            {" "}· mostly <b>{rungLabel(sum.usual)}</b>
+            {" "}· mostly <b><Rung r={sum.usual} /></b>
           </>
         )}
         {sum.not_judged > 0 && <> · {sum.not_judged} not analyzed yet</>} · {hm} inside tasks · {plural(ls.length, "session")}

diff --git a/apps/home/src/pages/Tasks.tsx b/apps/home/src/pages/Tasks.tsx
@@ -125,7 +125,7 @@ export function Tasks({ start, ...ctx }: Ctx & { start?: View }) {
                 <th>Project</th>
                 <th>Job and kind</th>
                 <th>
-                  <span className="rung" title="How much of the task you handed to the agent, from Assisted (1) to Factory (5). Hover a rung to see what it means.">Rung</span>
+                  <span className="rung" title="How much of the task you handed to the agent, from Assisted, rung 1, to Factory, rung 5. Hover a rung to see what it means.">Rung</span>
                 </th>
               </tr>
             </thead>
@@ -178,7 +178,7 @@ export function Tasks({ start, ...ctx }: Ctx & { start?: View }) {
 
 type View = "kinds" | "list" | "day";
 
-/** "↑ up from Directed (2)", from the same 14-day comparison as Home's progress (US-H5b). */
+/** "↑ up from Directed", from the same 14-day comparison as Home's progress (US-H5b). */
 function trendText(p: ProgressRow | undefined): { text: string; tone?: "ok" | "warn" } {
   if (!p || p.trend === "too_few") return { text: "Too few tasks to say" };
   if (p.trend === "same") return { text: "– same rung" };

diff --git a/apps/home/src/pages/Kind.tsx b/apps/home/src/pages/Kind.tsx
@@ -8,7 +8,7 @@ import { api, type FlagReason } from "../api";
 import { KIND_STATE, perWeek } from "../coach";
 import { day, jobName, plural, rungLabel, sentence, toolName, when } from "../format";
 import type { Coaching, KindRow, TaskRow } from "../types";
-import { Banners, Chip, Rung, Title, type Ctx } from "../ui";
+import { Banners, Chip, Rung, RungNo, Title, type Ctx } from "../ui";
 import { TeamToolLine, teamTool } from "../team";
 
 const REASONS: { v: FlagReason; label: string }[] = [
@@ -237,7 +237,7 @@ function MovingUp({ k, tasks, c, now, days, off }: { k: KindRow; tasks: TaskRow[
       <figure className="km" role="img" aria-label={label}>
         <div className="km-y" aria-hidden="true">
           {rows.map((r) => (
-            <span key={r} style={{ top: `${y(r)}%` }}>{rungLabel(r)}</span>
+            <span key={r} style={{ top: `${y(r)}%` }}><RungNo r={r} />{rungLabel(r)}</span>
           ))}
         </div>
         <div className="km-plot" aria-hidden="true">

diff --git a/apps/home/src/rungno.test.ts b/apps/home/src/rungno.test.ts
@@ -1,0 +1,18 @@
+// Control for DC-077: a rung's number in brackets beside counts ("Assisted (1)" over "286 of 287 tasks") reads as
+// a task count. Home shows the number as a badge (`RungNo`); no source may write the bracketed form again.
+import { describe, expect, it } from "vitest";
+
+const RUNG_IN_BRACKETS = /\b(Assisted|Directed|Delegated|Orchestrated|Factory) \(\s*[1-5]\s*\)|\.name\} \(\$\{|\} \(\{(r|i \+ 1|rung)\}\)/;
+const files = import.meta.glob(["./**/*.{ts,tsx,css}", "!./**/*.test.ts"], { query: "?raw", import: "default", eager: true }) as Record<string, string>;
+
+describe("rung numbers", () => {
+  it("never appear in brackets after a rung name in Home's source", () => {
+    expect(Object.keys(files).length).toBeGreaterThan(20);
+    const hits = Object.entries(files).flatMap(([p, src]) =>
+      src
+        .split("\n")
+        .flatMap((l, i) => (RUNG_IN_BRACKETS.test(l) ? [`${p}:${i + 1}: ${l.trim()}`] : [])),
+    );
+    expect(hits).toEqual([]);
+  });
+});

diff --git a/apps/home/src/ui.tsx b/apps/home/src/ui.tsx
@@ -309,10 +309,20 @@ export const Chip = ({ children, tone }: { children: ReactNode; tone?: "ok" | "w
   <span className={`chip${tone ? ` ${tone}` : ""}`}>{children}</span>
 );
 
-/** A rung's name; hovering it says what the rung means (the full ladder is on Home, How you work with agents). */
+/** A rung's place on the ladder as a badge in its hue: a number, never "(2)", which beside counts reads as a count. */
+export const RungNo = ({ r }: { r: number }) => (
+  <i className={`rung-no rg-${r}`} aria-hidden="true">
+    {r}
+  </i>
+);
+
+/** A rung's number badge and name; hovering the name says what the rung means (the full ladder is on Home). */
 export const Rung = ({ r }: { r: number }) => (
-  <span className="rung" title={RUNGS[r - 1].means}>
-    {rungLabel(r)}
+  <span className="rung-tag">
+    <RungNo r={r} />
+    <span className="rung" title={RUNGS[r - 1].means}>
+      {rungLabel(r)}
+    </span>
   </span>
 );
 

diff --git a/apps/home/src/format.ts b/apps/home/src/format.ts
@@ -9,8 +9,9 @@ export const RUNGS: { name: string; means: string }[] = [
   { name: "Factory", means: "A saved, versioned workflow runs the work, for you and for others." },
 ];
 
-/** Rung names first, numbers second (spec H4): "Directed (2)". */
-export const rungLabel = (rung: number) => `${RUNGS[rung - 1].name} (${rung})`;
+/** A rung's name for text (aria labels, titles, sentences). On screen the rung's number is a badge before the
+ *  name (`Rung` in ui.tsx), never "(2)" after it: beside counts a bracketed number reads as a count (DC-077). */
+export const rungLabel = (rung: number) => RUNGS[rung - 1].name;
 
 const JOBS: Record<string, string> = { code_change: "Code a change", write_doc: "Write a spec or doc", ask_research: "Ask or research", run_ship: "Run or ship it", unclassified: "No job fits" };
 /** The job a task was judged to be. */

diff --git a/apps/home/src/format.test.ts b/apps/home/src/format.test.ts
@@ -19,9 +19,9 @@ describe("format", () => {
     expect(stateLabel("judged")).toBe("");
   });
 
-  it("names rungs first, numbers second", () => {
-    expect(rungLabel(2)).toBe("Directed (2)");
-    expect(rungLabel(5)).toBe("Factory (5)");
+  it("names a rung by name only: its number is a badge on screen, never \"(2)\" (DC-077)", () => {
+    expect(rungLabel(2)).toBe("Directed");
+    expect(rungLabel(5)).toBe("Factory");
   });
   it("shows the folder's own name", () => {
     expect(folderName("c:\\users\\imran\\source\\repos\\aiq")).toBe("aiq");
